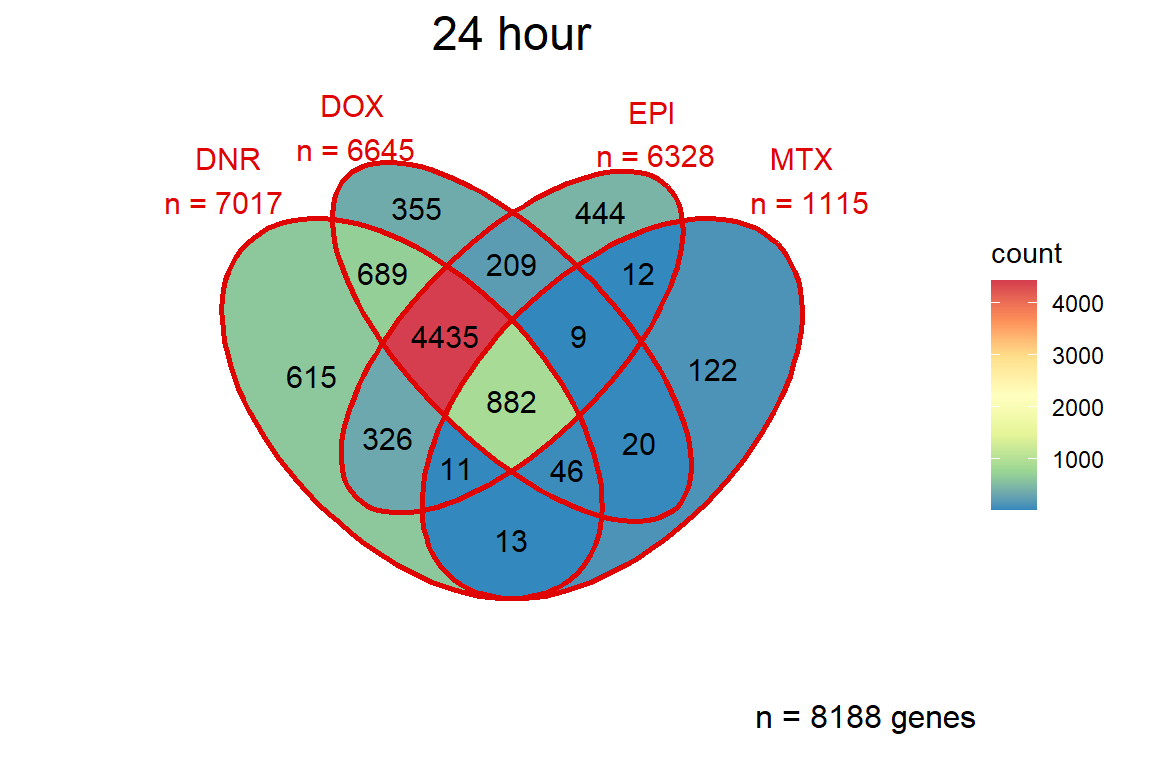
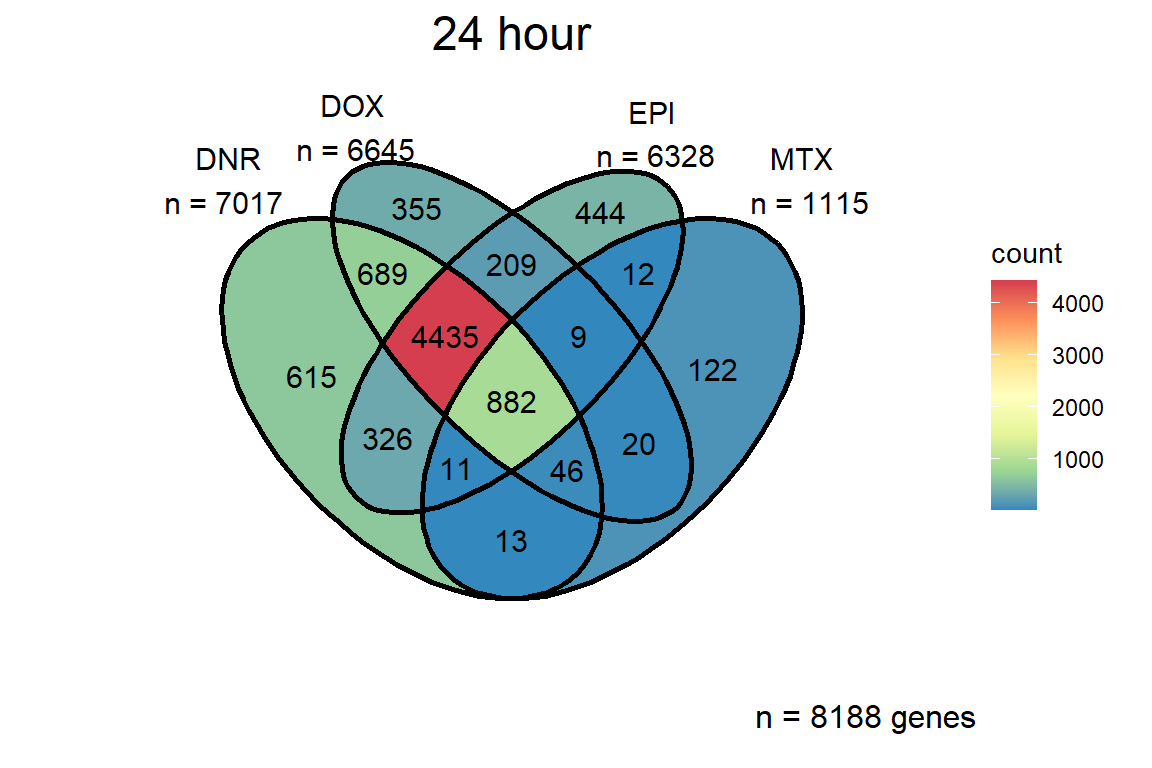
Build site.

diff --git a/docs/Figure3.html b/docs/Figure3.html
@@ -522,15 +522,15 @@ project makes it easier to run your code on other machines.</p>
 <div class="panel panel-default">
 <div class="panel-heading">
 <p class="panel-title">
-<a data-toggle="collapse" data-parent="#workflowr-checks" href="#strongRepositoryversionstrongahrefhttpsgithubcommwardlabMatthewsTOP2icardiotox2023treebe9b3ad34509b2ce9e11d22fa0b6e43fde208177targetblankbe9b3ada">
+<a data-toggle="collapse" data-parent="#workflowr-checks" href="#strongRepositoryversionstrongahrefhttpsgithubcommwardlabMatthewsTOP2icardiotox2023treeb0e5bcc8e1e3eda7cd25098a463b229ae110e290targetblankb0e5bcca">
 <span class="glyphicon glyphicon-ok text-success"
 aria-hidden="true"></span> <strong>Repository version:</strong>
-<a href="https://github.com/mward-lab/Matthews_TOP2i_cardiotox_2023/tree/be9b3ad34509b2ce9e11d22fa0b6e43fde208177" target="_blank">be9b3ad</a>
+<a href="https://github.com/mward-lab/Matthews_TOP2i_cardiotox_2023/tree/b0e5bcc8e1e3eda7cd25098a463b229ae110e290" target="_blank">b0e5bcc</a>
 </a>
 </p>
 </div>
 <div
[2 lines of base64/hex data omitted]
 class="panel-collapse collapse">
 <div class="panel-body">
 <p>
@@ -540,7 +540,7 @@ reproducibility.
 </p>
 <p>
 The results in this page were generated with repository version
-<a href="https://github.com/mward-lab/Matthews_TOP2i_cardiotox_2023/tree/be9b3ad34509b2ce9e11d22fa0b6e43fde208177" target="_blank">be9b3ad</a>.
+<a href="https://github.com/mward-lab/Matthews_TOP2i_cardiotox_2023/tree/b0e5bcc8e1e3eda7cd25098a463b229ae110e290" target="_blank">b0e5bcc</a>.
 See the <em>Past versions</em> tab to see a history of the changes made
 to the R Markdown and HTML files.
 </p>
@@ -945,6 +945,40 @@ Message
 Rmd
 </td>
 <td>
+<a href="https://github.com/mward-lab/Matthews_TOP2i_cardiotox_2023/blob/b0e5bcc8e1e3eda7cd25098a463b229ae110e290/analysis/Figure3.Rmd" target="_blank">b0e5bcc</a>
+</td>
+<td>
+reneeisnowhere
+</td>
+<td>
+2024-02-06
+</td>
+<td>
+updates to Venn code
+</td>
+</tr>
+<tr>
+<td>
+html
+</td>
+<td>
+<a href="https://rawcdn.githack.com/mward-lab/Matthews_TOP2i_cardiotox_2023/2315be3b54b3ec3c79491461c7c0b7b385fe1a0e/docs/Figure3.html" target="_blank">2315be3</a>
+</td>
+<td>
+reneeisnowhere
+</td>
+<td>
+2024-02-06
+</td>
+<td>
+Build site.
+</td>
+</tr>
+<tr>
+<td>
+Rmd
+</td>
+<td>
 <a href="https://github.com/mward-lab/Matthews_TOP2i_cardiotox_2023/blob/be9b3ad34509b2ce9e11d22fa0b6e43fde208177/analysis/Figure3.Rmd" target="_blank">be9b3ad</a>
 </td>
 <td>
@@ -1306,7 +1340,16 @@ library(cowplot)
 library(ggsignif)
 library(RColorBrewer)
 library(broom)
-library(edgeR)</code></pre>
+library(edgeR)
+library(data.table)
+
+library(broom)
+library(limma)
+library(corrplot)
+library(ggVennDiagram)
+library(ComplexHeatmap)
+library(gridtext)
+library(paletteer)</code></pre>
 <div
 id="figure-3-top2i-induce-global-gene-expression-changes-over-24-hours."
 class="section level2">
@@ -1389,6 +1432,17 @@ Date
 <tbody>
 <tr>
 <td>
+<a href="https://github.com/mward-lab/Matthews_TOP2i_cardiotox_2023/blob/2315be3b54b3ec3c79491461c7c0b7b385fe1a0e/docs/figure/Figure3.Rmd/PCA-1.png" target="_blank">2315be3</a>
+</td>
+<td>
+reneeisnowhere
+</td>
+<td>
+2024-02-06
+</td>
+</tr>
+<tr>
+<td>
 <a href="https://github.com/mward-lab/Matthews_TOP2i_cardiotox_2023/blob/a745db35be21a635d86bf4d1774be9e1ee719b41/docs/figure/Figure3.Rmd/PCA-1.png" target="_blank">a745db3</a>
 </td>
 <td>
@@ -1449,15 +1503,6 @@ reneeisnowhere
 <p>More information on overall RNA-seq analysis can be found <a
 href="https://mward-lab.github.io/Matthews_TOP2i_cardiotox_2023/run_all_analysis.html#PCA_by_treatment_and_as_a_whole">at
 this link</a></p>
-<pre class="r"><code>library(data.table)
-
-library(broom)
-library(limma)
-library(corrplot)
-library(ggVennDiagram)
-library(ComplexHeatmap)
-library(gridtext)
-library(paletteer)</code></pre>
 <pre class="r"><code>toplistall &lt;- readRDS(&quot;data/toplistall.RDS&quot;)
 siglist &lt;- readRDS(&quot;data/siglist_final.RDS&quot;)
 list2env(siglist, envir = .GlobalEnv)</code></pre>
@@ -1520,6 +1565,43 @@ ComplexHeatmap::pheatmap(
   treeheight_col = 20
 )</code></pre>
 <p><img src="figure/Figure3.Rmd/corrFC-1.png" width="672" style="display: block; margin: auto;" /></p>
+<p>
+<button type="button" class="btn btn-default btn-xs btn-workflowr btn-workflowr-fig" data-toggle="collapse" data-target="#fig-corrFC-1">
+Past versions of corrFC-1.png
+</button>
+</p>
+<div id="fig-corrFC-1" class="collapse">
+<div class="table-responsive">
+<table class="table table-condensed table-hover">
+<thead>
+<tr>
+<th>
+Version
+</th>
+<th>
+Author
+</th>
+<th>
+Date
+</th>
+</tr>
+</thead>
+<tbody>
+<tr>
+<td>
+<a href="https://github.com/mward-lab/Matthews_TOP2i_cardiotox_2023/blob/2315be3b54b3ec3c79491461c7c0b7b385fe1a0e/docs/figure/Figure3.Rmd/corrFC-1.png" target="_blank">2315be3</a>
+</td>
+<td>
+reneeisnowhere
+</td>
+<td>
+2024-02-06
+</td>
+</tr>
+</tbody>
+</table>
+</div>
+</div>
 <pre class="r"><code>HMcorr &lt;- ComplexHeatmap::pheatmap(
   corrFC,
   display_numbers = TRUE,
@@ -1560,7 +1642,7 @@ fig3hrvenn &lt;- ggVennDiagram::ggVennDiagram(total3,
               edge_lty = &quot;solid&quot;, set_size = 4.5)+
   scale_x_continuous(expand = expansion(mult = .3))+
   scale_y_continuous(expand = expansion(mult = .2))+
-  scale_color_paletteer_d(palette = &quot;fishualize::Bodianus_pulchellus&quot;)+
+  # scale_color_fish_d(option = &quot;Bodianus_pulchellus&quot;, direction = -1)+
   scale_fill_distiller(palette=&quot;Spectral&quot;, direction = -1, limits=c(0,4500))+
   labs(title = &quot;3 hour&quot;,
        caption = paste(&quot;n =&quot;, length(unique(totalin_common3)),&quot;genes\n &quot;))+
@@ -1568,6 +1650,43 @@ fig3hrvenn &lt;- ggVennDiagram::ggVennDiagram(total3,
         plot.caption=element_text(size=12))
 fig3hrvenn </code></pre>
 <p><img src="figure/Figure3.Rmd/3_hr_venn-1.png" width="576" style="display: block; margin: auto;" /></p>
+<p>
+<button type="button" class="btn btn-default btn-xs btn-workflowr btn-workflowr-fig" data-toggle="collapse" data-target="#fig-3_hr_venn-1">
+Past versions of 3_hr_venn-1.png
+</button>
+</p>
+<div id="fig-3_hr_venn-1" class="collapse">
+<div class="table-responsive">
+<table class="table table-condensed table-hover">
+<thead>
+<tr>
+<th>
+Version
+</th>
+<th>
+Author
+</th>
+<th>
+Date
+</th>
+</tr>
+</thead>
+<tbody>
+<tr>
+<td>
+<a href="https://github.com/mward-lab/Matthews_TOP2i_cardiotox_2023/blob/2315be3b54b3ec3c79491461c7c0b7b385fe1a0e/docs/figure/Figure3.Rmd/3_hr_venn-1.png" target="_blank">2315be3</a>
+</td>
+<td>
+reneeisnowhere
+</td>
+<td>
+2024-02-06
+</td>
+</tr>
+</tbody>
+</table>
+</div>
+</div>
 </div>
 <div id="d.-venn-diagram-of-24-hour-degs" class="section level2">
 <h2>D. Venn Diagram of 24 hour DEGs</h2>
@@ -1604,7 +1723,7 @@ fig24hrvenn &lt;- ggVennDiagram::ggVennDiagram(
 ) +
   scale_x_continuous(expand = expansion(mult = .3)) +
   scale_y_continuous(expand = expansion(mult = .2)) +
-  scale_color_paletteer_d(palette = &quot;fishualize::Bodianus_pulchellus&quot;) +
+  # scale_color_paletteer_d(palette = &quot;fishualize::Bodianus_pulchellus&quot;) +
   scale_fill_distiller(palette = &quot;Spectral&quot;, direction = -1) +
   labs(title = &quot;24 hour&quot;,
        caption = paste(&quot;n =&quot;, length(unique(in_common24)), &quot;genes\n &quot;)) +
@@ -1619,6 +1738,43 @@ fig24hrvenn &lt;- ggVennDiagram::ggVennDiagram(
   )
 fig24hrvenn</code></pre>
 <p><img src="figure/Figure3.Rmd/24_hr_venn-1.png" width="576" style="display: block; margin: auto;" /></p>
+<p>
+<button type="button" class="btn btn-default btn-xs btn-workflowr btn-workflowr-fig" data-toggle="collapse" data-target="#fig-24_hr_venn-1">
+Past versions of 24_hr_venn-1.png
+</button>
+</p>
+<div id="fig-24_hr_venn-1" class="collapse">
+<div class="table-responsive">
+<table class="table table-condensed table-hover">
+<thead>
+<tr>
+<th>
+Version
+</th>
+<th>
+Author
+</th>
+<th>
+Date
+</th>
+</tr>
+</thead>
+<tbody>
+<tr>
+<td>
+<a href="https://github.com/mward-lab/Matthews_TOP2i_cardiotox_2023/blob/2315be3b54b3ec3c79491461c7c0b7b385fe1a0e/docs/figure/Figure3.Rmd/24_hr_venn-1.png" target="_blank">2315be3</a>
+</td>
+<td>
+reneeisnowhere
+</td>
+<td>
+2024-02-06
+</td>
+</tr>
+</tbody>
+</table>
+</div>
+</div>
 <p>More information can be found <a
 href="https://mward-lab.github.io/Matthews_TOP2i_cardiotox_2023/DEG-GO_analysis.html#Venn_Diagrams">here</a>.</p>
 </div>
@@ -1709,8 +1865,45 @@ draw(
     }
   )
 )</code></pre>
-<p><img src="figure/Figure3.Rmd/KEGG3-1.png" width="576" style="display: block; margin: auto;" />
-More information can be found <a
+<p><img src="figure/Figure3.Rmd/KEGG3-1.png" width="576" style="display: block; margin: auto;" /></p>
+<p>
+<button type="button" class="btn btn-default btn-xs btn-workflowr btn-workflowr-fig" data-toggle="collapse" data-target="#fig-KEGG3-1">
+Past versions of KEGG3-1.png
+</button>
+</p>
+<div id="fig-KEGG3-1" class="collapse">
+<div class="table-responsive">
+<table class="table table-condensed table-hover">
+<thead>
+<tr>
+<th>
+Version
+</th>
+<th>
+Author
+</th>
+<th>
+Date
+</th>
+</tr>
+</thead>
+<tbody>
+<tr>
+<td>
+<a href="https://github.com/mward-lab/Matthews_TOP2i_cardiotox_2023/blob/2315be3b54b3ec3c79491461c7c0b7b385fe1a0e/docs/figure/Figure3.Rmd/KEGG3-1.png" target="_blank">2315be3</a>
+</td>
+<td>
+reneeisnowhere
+</td>
+<td>
+2024-02-06
+</td>
+</tr>
+</tbody>
+</table>
+</div>
+</div>
+<p>More information can be found <a
 href="https://mward-lab.github.io/Matthews_TOP2i_cardiotox_2023/DEG-GO_analysis.html#Venn_Diagrams">here</a>.</p>
 </div>
 <div id="f.-24-hour-top-enriched-kegg-pathways" class="section level2">
@@ -1793,6 +1986,43 @@ Heatmap(
   }
 )</code></pre>
 <p><img src="figure/Figure3.Rmd/KEGG24-1.png" width="672" style="display: block; margin: auto;" /></p>
+<p>
+<button type="button" class="btn btn-default btn-xs btn-workflowr btn-workflowr-fig" data-toggle="collapse" data-target="#fig-KEGG24-1">
+Past versions of KEGG24-1.png
+</button>
+</p>
+<div id="fig-KEGG24-1" class="collapse">
+<div class="table-responsive">
+<table class="table table-condensed table-hover">
+<thead>
+<tr>
+<th>
+Version
+</th>
+<th>
+Author
+</th>
+<th>
+Date
+</th>
+</tr>
+</thead>
+<tbody>
+<tr>
+<td>
+<a href="https://github.com/mward-lab/Matthews_TOP2i_cardiotox_2023/blob/2315be3b54b3ec3c79491461c7c0b7b385fe1a0e/docs/figure/Figure3.Rmd/KEGG24-1.png" target="_blank">2315be3</a>
+</td>
+<td>
+reneeisnowhere
+</td>
+<td>
+2024-02-06
+</td>
+</tr>
+</tbody>
+</table>
+</div>
+</div>
 <p>Further KEGG analysis information and code may be <a
 href="https://mward-lab.github.io/Matthews_TOP2i_cardiotox_2023/DEG-GO_analysis.html#KEGG_pathway_intersection_of_pairwise_DEG_sets">found
 here</a></p>
@@ -1859,17 +2089,17 @@ loaded via a namespace (and not attached):
 [52] doParallel_1.0.17   codetools_0.2-19    processx_3.8.2     
 [55] lattice_0.22-5      withr_3.0.0         evaluate_0.23      
 [58] survival_3.5-7      xml2_1.3.5          circlize_0.4.15    
-[61] pillar_1.9.0        whisker_0.4.1       stats4_4.3.1       
-[64] foreach_1.5.2       generics_0.1.3      rprojroot_2.0.4    
-[67] S4Vectors_0.38.2    hms_1.1.3           commonmark_1.9.1   
+[61] pillar_1.9.0        whisker_0.4.1       foreach_1.5.2      
+[64] stats4_4.3.1        generics_0.1.3      rprojroot_2.0.4    
+[67] hms_1.1.3           S4Vectors_0.38.2    commonmark_1.9.1   
 [70] munsell_0.5.0       scales_1.3.0        gtools_3.9.4       
 [73] glue_1.6.2          tools_4.3.1         locfit_1.5-9.8     
 [76] fs_1.6.3            mvtnorm_1.2-3       plotrix_3.8-4      
 [79] colorspace_2.1-0    cli_3.6.1           fansi_1.0.5        
 [82] gtable_0.3.4        sass_0.4.7          digest_0.6.33      
-[85] prismatic_1.1.1     ggrepel_0.9.4       TH.data_1.1-2      
-[88] rjson_0.2.21        farver_2.1.1        htmltools_0.5.7    
-[91] lifecycle_1.0.4     httr_1.4.7          GlobalOptions_0.1.2</code></pre>
+[85] ggrepel_0.9.4       TH.data_1.1-2       farver_2.1.1       
+[88] rjson_0.2.21        htmltools_0.5.7     lifecycle_1.0.4    
+[91] httr_1.4.7          GlobalOptions_0.1.2</code></pre>
 </div>
 </div>
 
